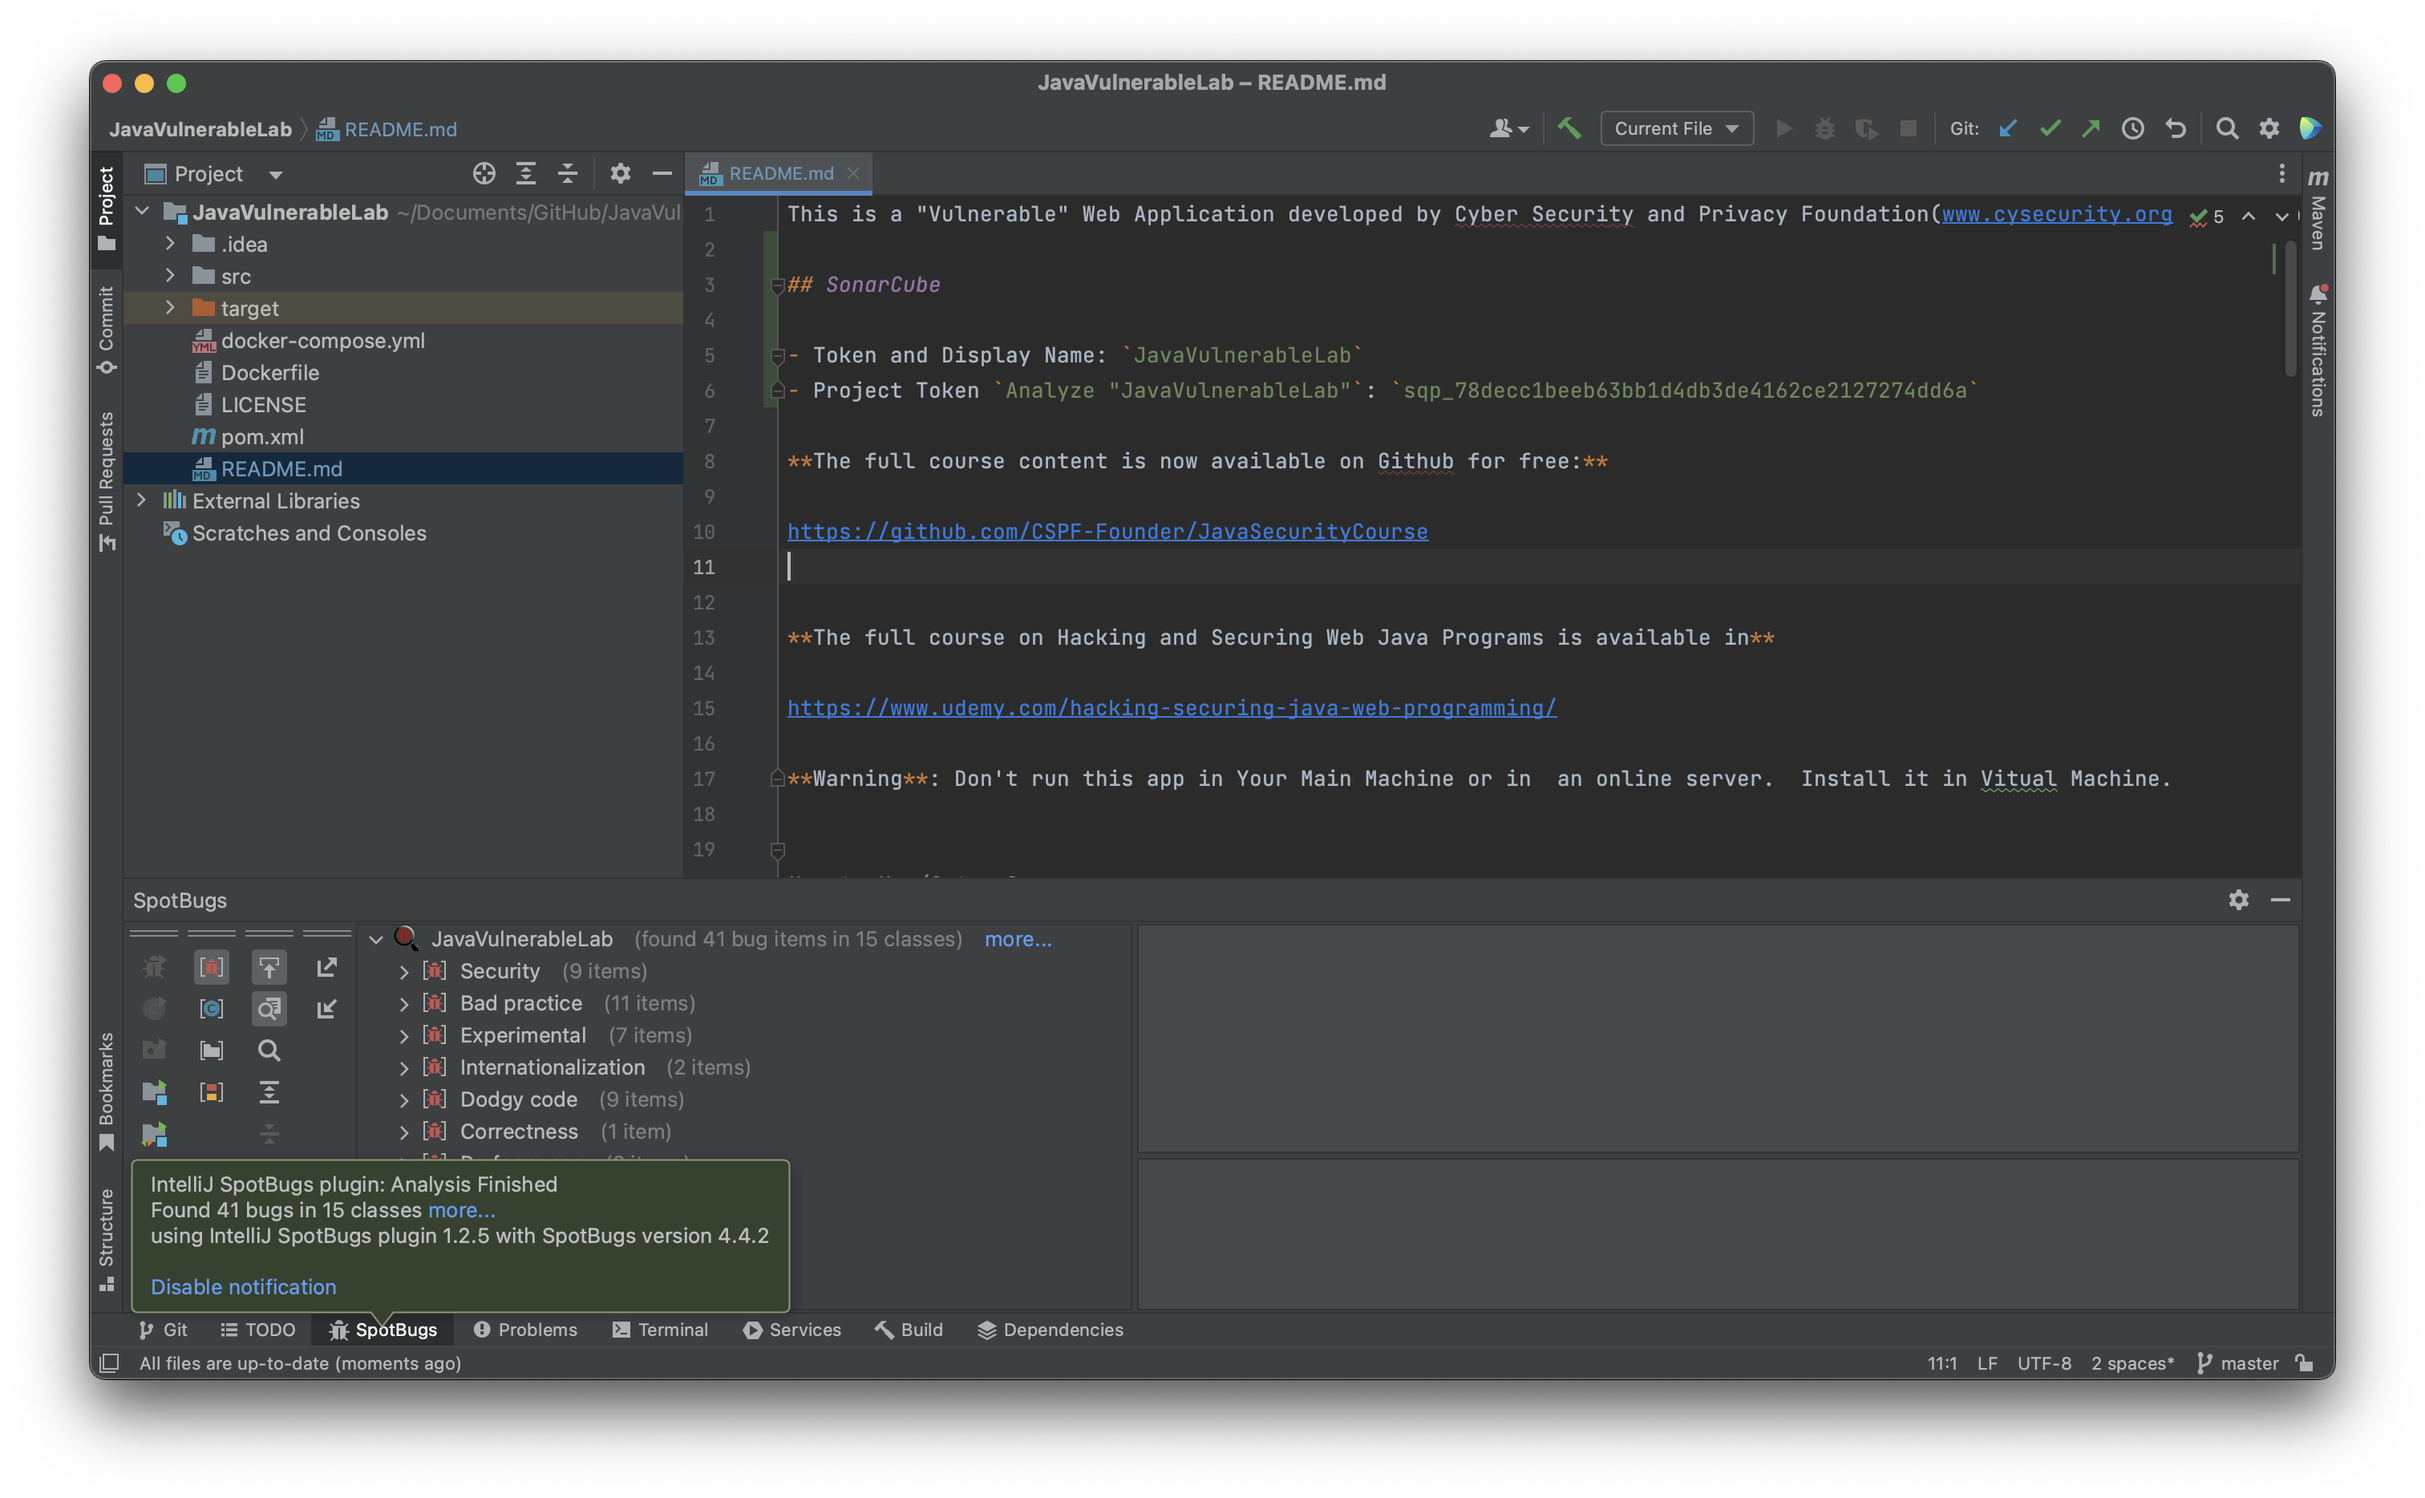
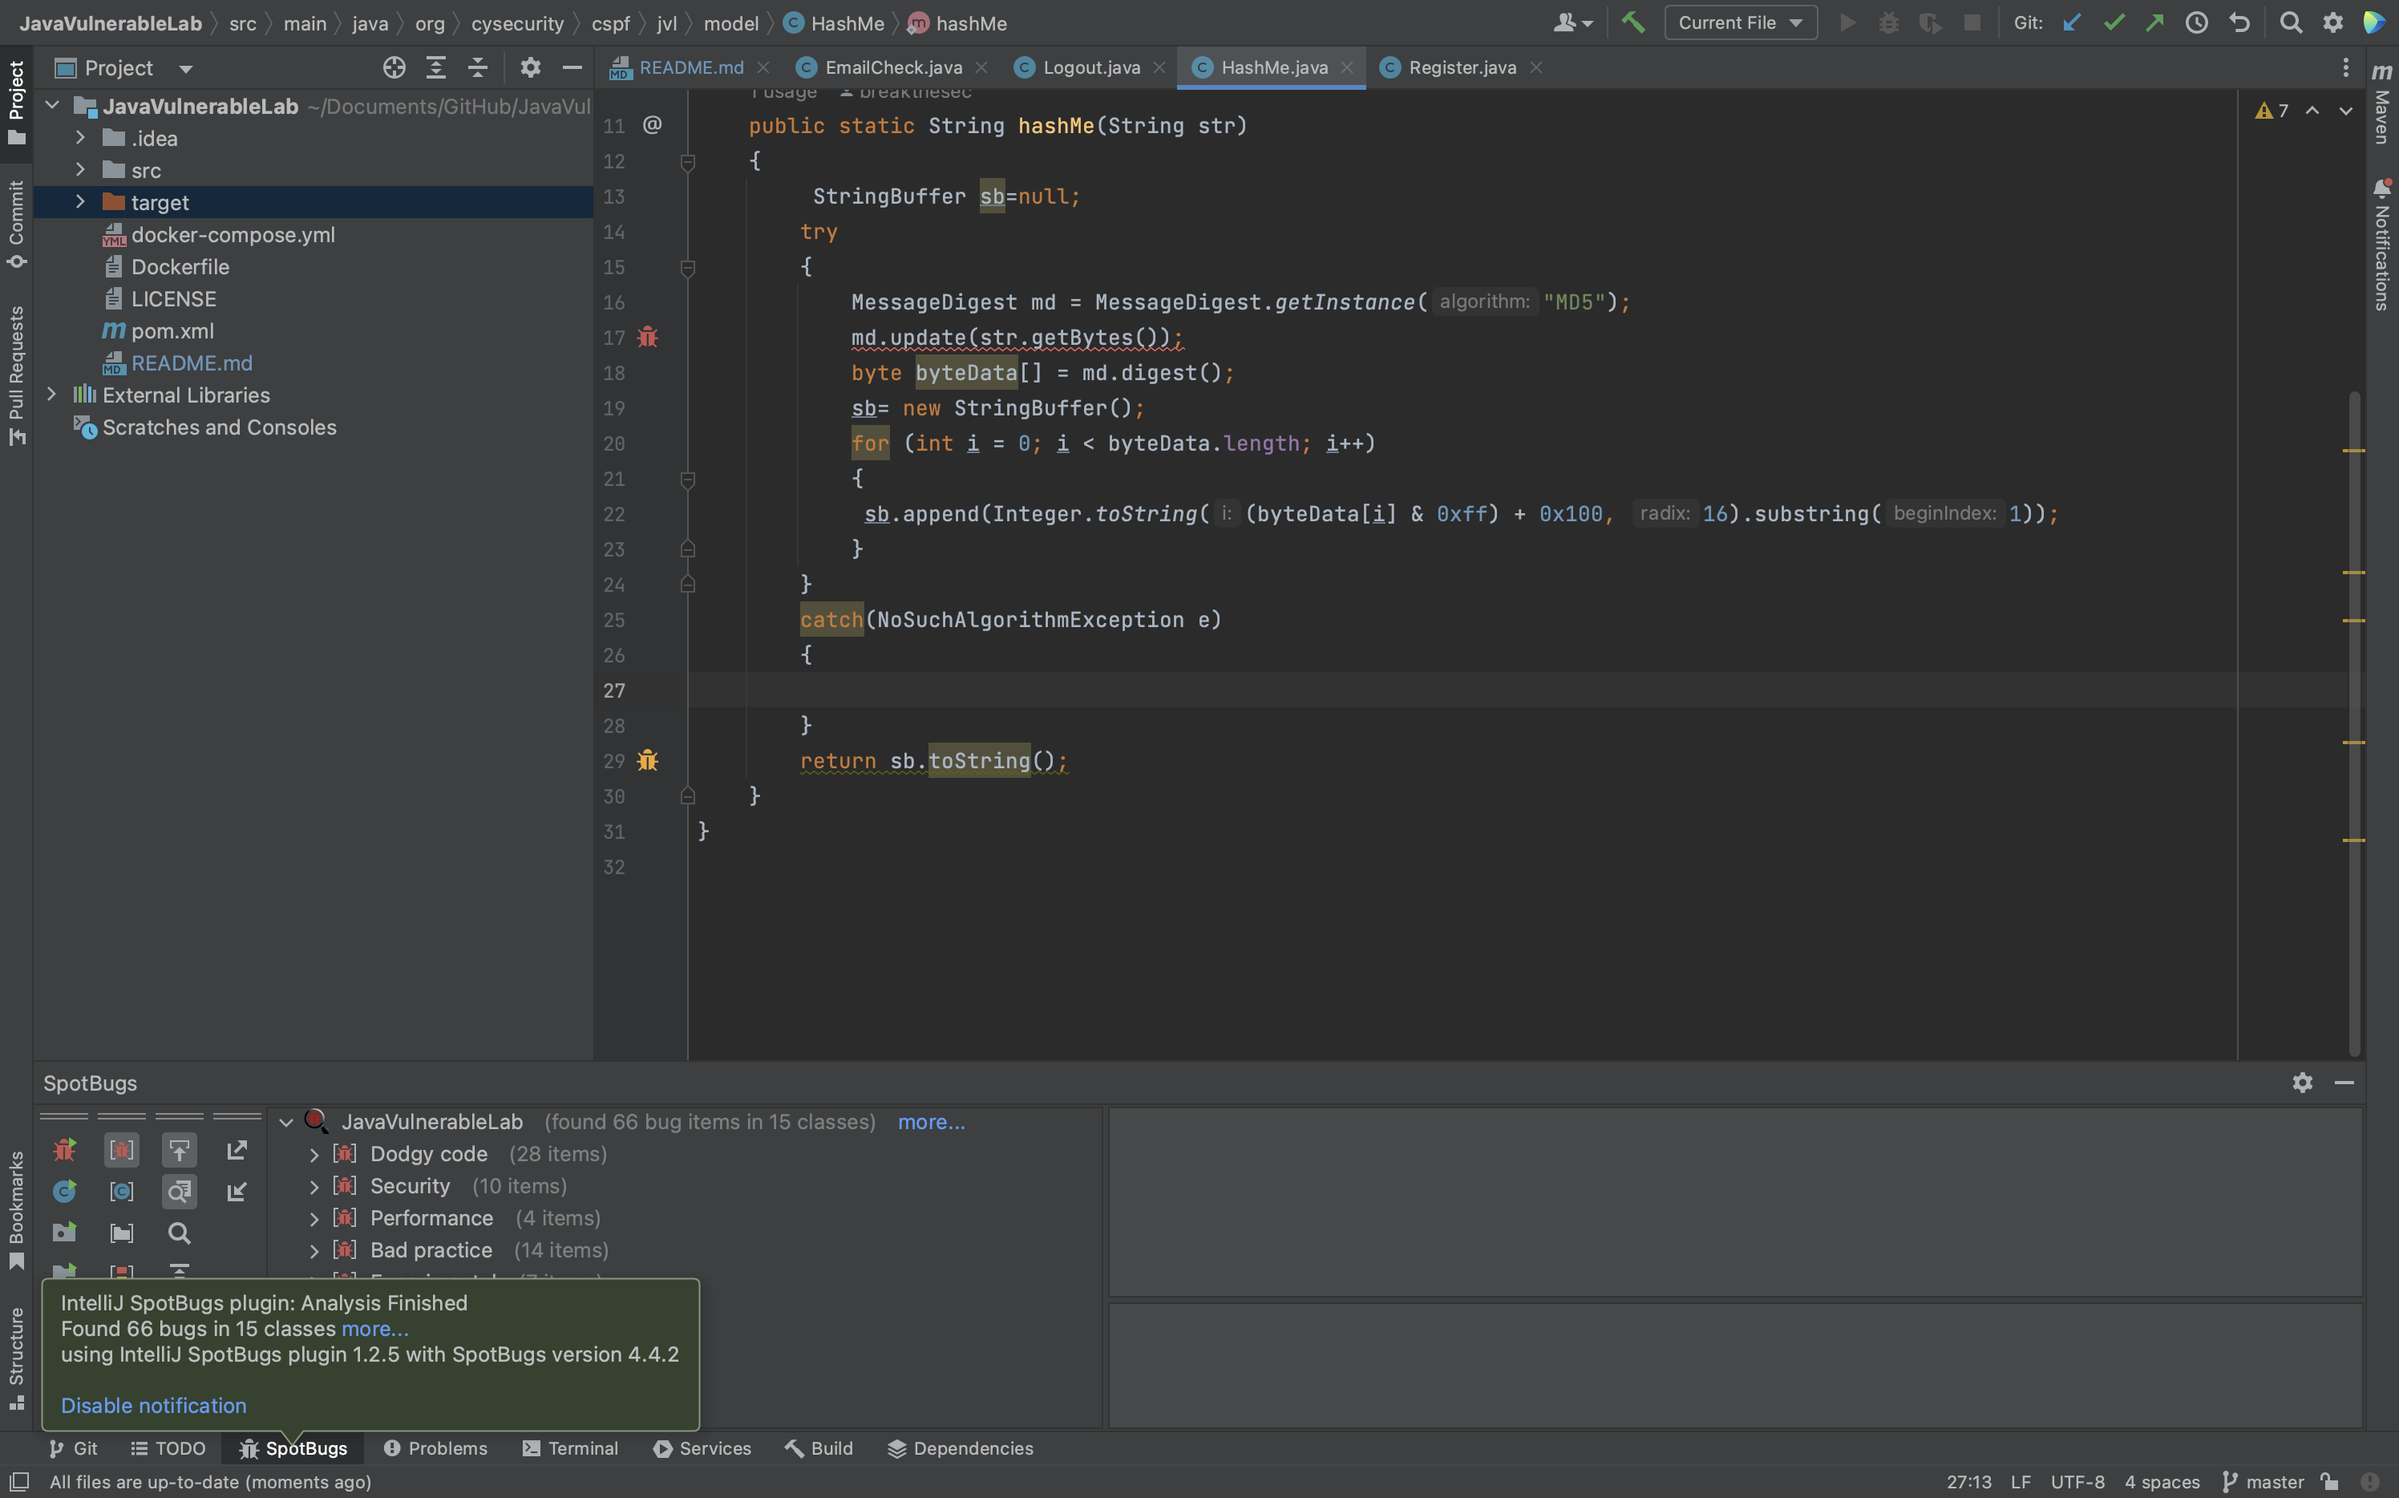
Update 763 lab 1

diff --git a/master-notes/BU/763/labs/1/README.md b/master-notes/BU/763/labs/1/README.md
@@ -7,6 +7,7 @@
     - [Solution](#solution-2)
   - [Question 4](#question-4)
     - [Solution](#solution-3)
+      - [1. Non-constant string passed to execute on an SQL statement](#1-non-constant-string-passed-to-execute-on-an-sql-statement)
   - [Question 5](#question-5)
     - [Solution](#solution-4)
   - [Question 6](#question-6)
@@ -23,7 +24,7 @@ How many bug items are identified by SpotBugs? What are the categories of these 
 
 ### Solution
 
-There are **41** bugs identified in **15** classes by SpotBugs. Categories of these bugs are **Security**, **Bad Practice**, **Experimental**, **Internationalization**, **Dodgy Code**, **Correctness**, and **Performance**:
+There are **66** bugs identified in **15** classes by SpotBugs. Categories of these bugs are **Security**, **Bad Practice**, **Experimental**, **Internationalization**, **Dodgy Code**, **Correctness**, and **Performance**:
 
 ![SpotBugs](./SpotBugs.png)
 
@@ -38,6 +39,10 @@ Modify the configuration to only report the scary bugs:
 **5** scary bugs identified in **15** classes:
 
 ![SpotBugsScary](./SpotBugsScary.png)
+
+False positives found as following. The developer has actually indicated a TODO below `out` variable, but SpotBugs still reports it as _dead local store_:
+
+![SpotBugsFalsePositive](./SpotBugsFalsePositive.png)
 
 ## Question 2
 
@@ -62,17 +67,45 @@ There are **0** critical security issues are identified by SonarQube:
 
 ![SonarQubeNoSecurity](./SonarQubeNoSecurity.png)
 
+False positives found as following. The developer has actually indicated a TODO below `out` variable, but SonarQube still reports it as _remove this useless assignment to local variable_:
+
+![SonarQubeFalsePositive](./SonarQubeFalsePositive.png)
+
 ## Question 3
 
 Compare the results by SpotBugs and SonarQube and state your findings.
 
 ### Solution
 
+SpotBugs and SonarQube are kind reversed version for each's names. I suppose that SpotBugs would provide more messages for Java related bugs while SonarQube would offer more suggestions for general programming issue. However, it turns out that SpotBugs has very detailed documentation for bugs such as _HTTP Response splitting vulnerability_, which all programming language would face, while SonarQube indicates the cause and solution of _Make the enclosing method "static" or remove this set_ that the syntax only exists in Java.
+
+Overall, SpotBugs are faster, and it is easy-to-use since it has been well integrated within IDEs (can write the solution and cause at one single window). SonarQube is slower, but it has many other features that SpotBug doesn't have such as tagging, issuing tickets, and visualizing.
+
 ## Question 4
 
 Choose 5 security bugs (or security issues) from any report and explain them in more detail. Do you know how to fix them? You may need to do additional research on them
 
 ### Solution
+
+#### 1. Non-constant string passed to execute on an SQL statement
+
+Located at `src/main/java/org/cysecurity/cspf/jvl/controller/EmailCheck.java` line 48 to 59. The method invokes the execute or addBatch method on an SQL statement with a String that seems to be dynamically generated:
+
+```java
+Statement stmt = con.createStatement();
+rs=stmt.executeQuery("select * from users where email='"+email+"'");
+```
+
+Consider using a prepared statement instead. It is more efficient and less vulnerable to SQL injection attacks:
+
+```java
+stmt = con.prepareStatement("UPDATE menu set menu.name=?, menu.info=?, menu.price=? where menu.menuID=?")
+stmt.setString(1, value2); /* menu.name */
+stmt.setString(2, value3); /* menu.info */
+stmt.setFloat(3, value4);  /* menu.price */
+stmt.setInt(4, value1);    /* menuID */
+stmt.executeUpdate();
+```
 
 ## Question 5
 
